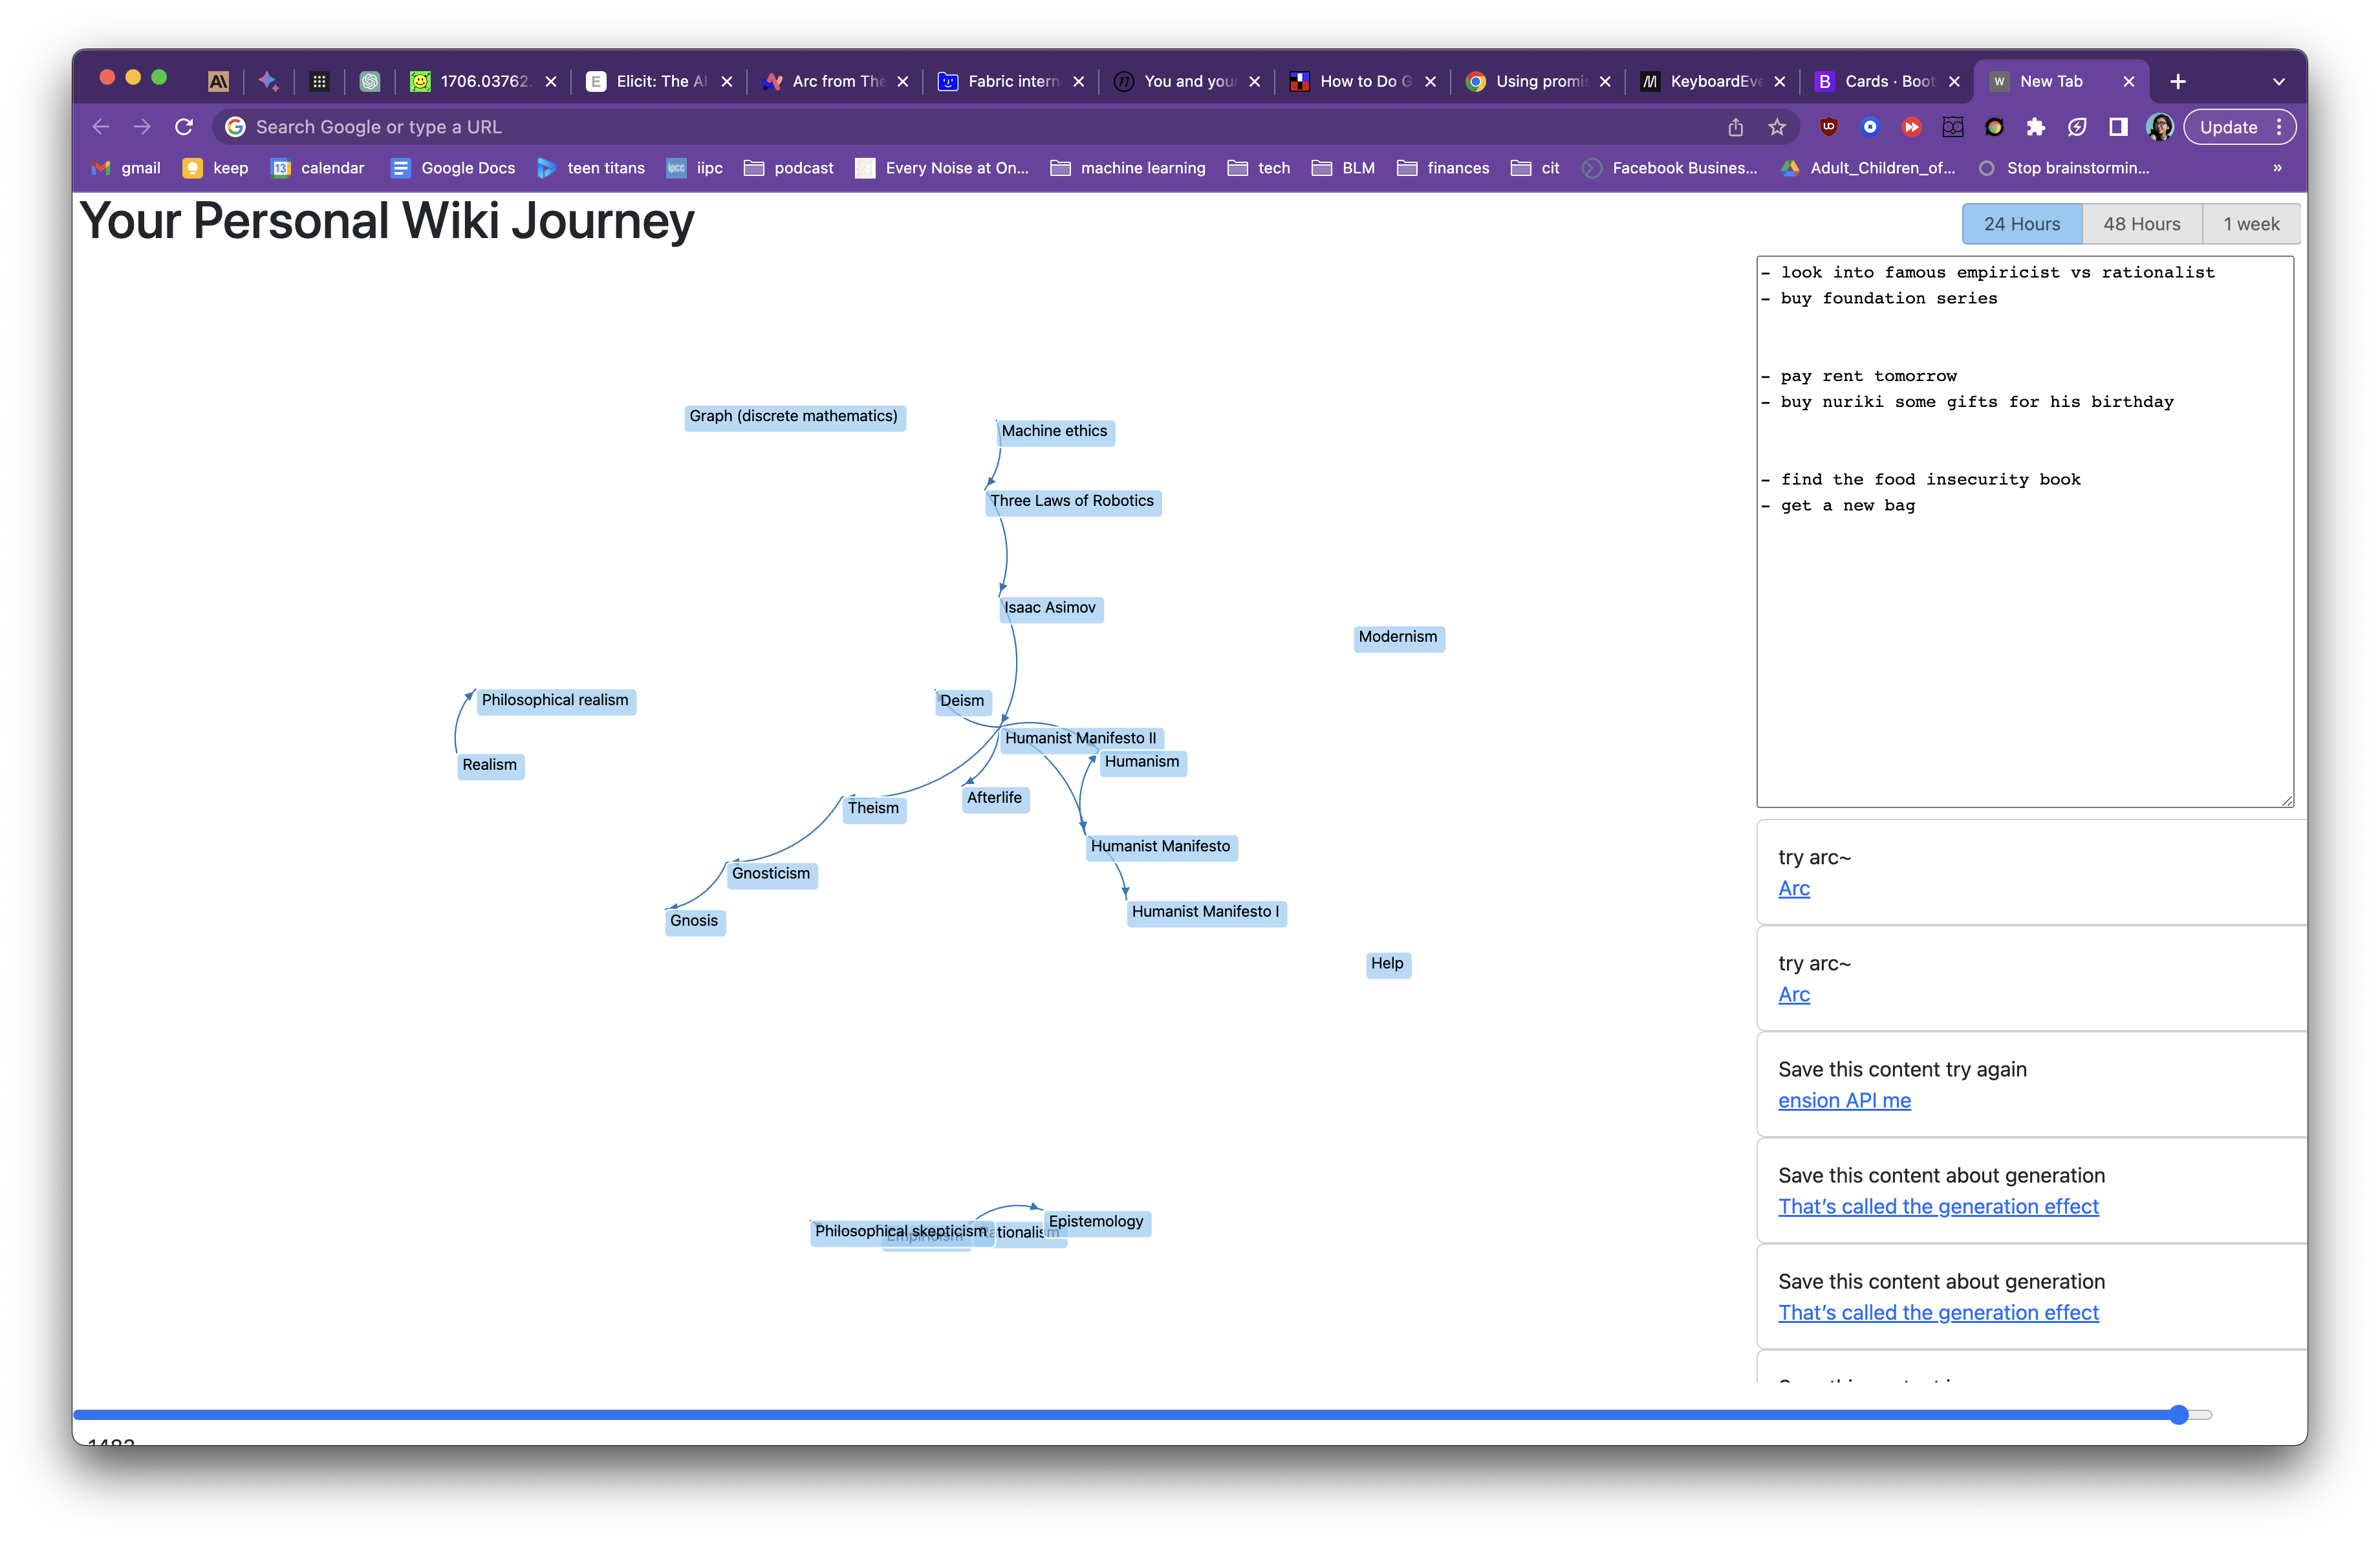
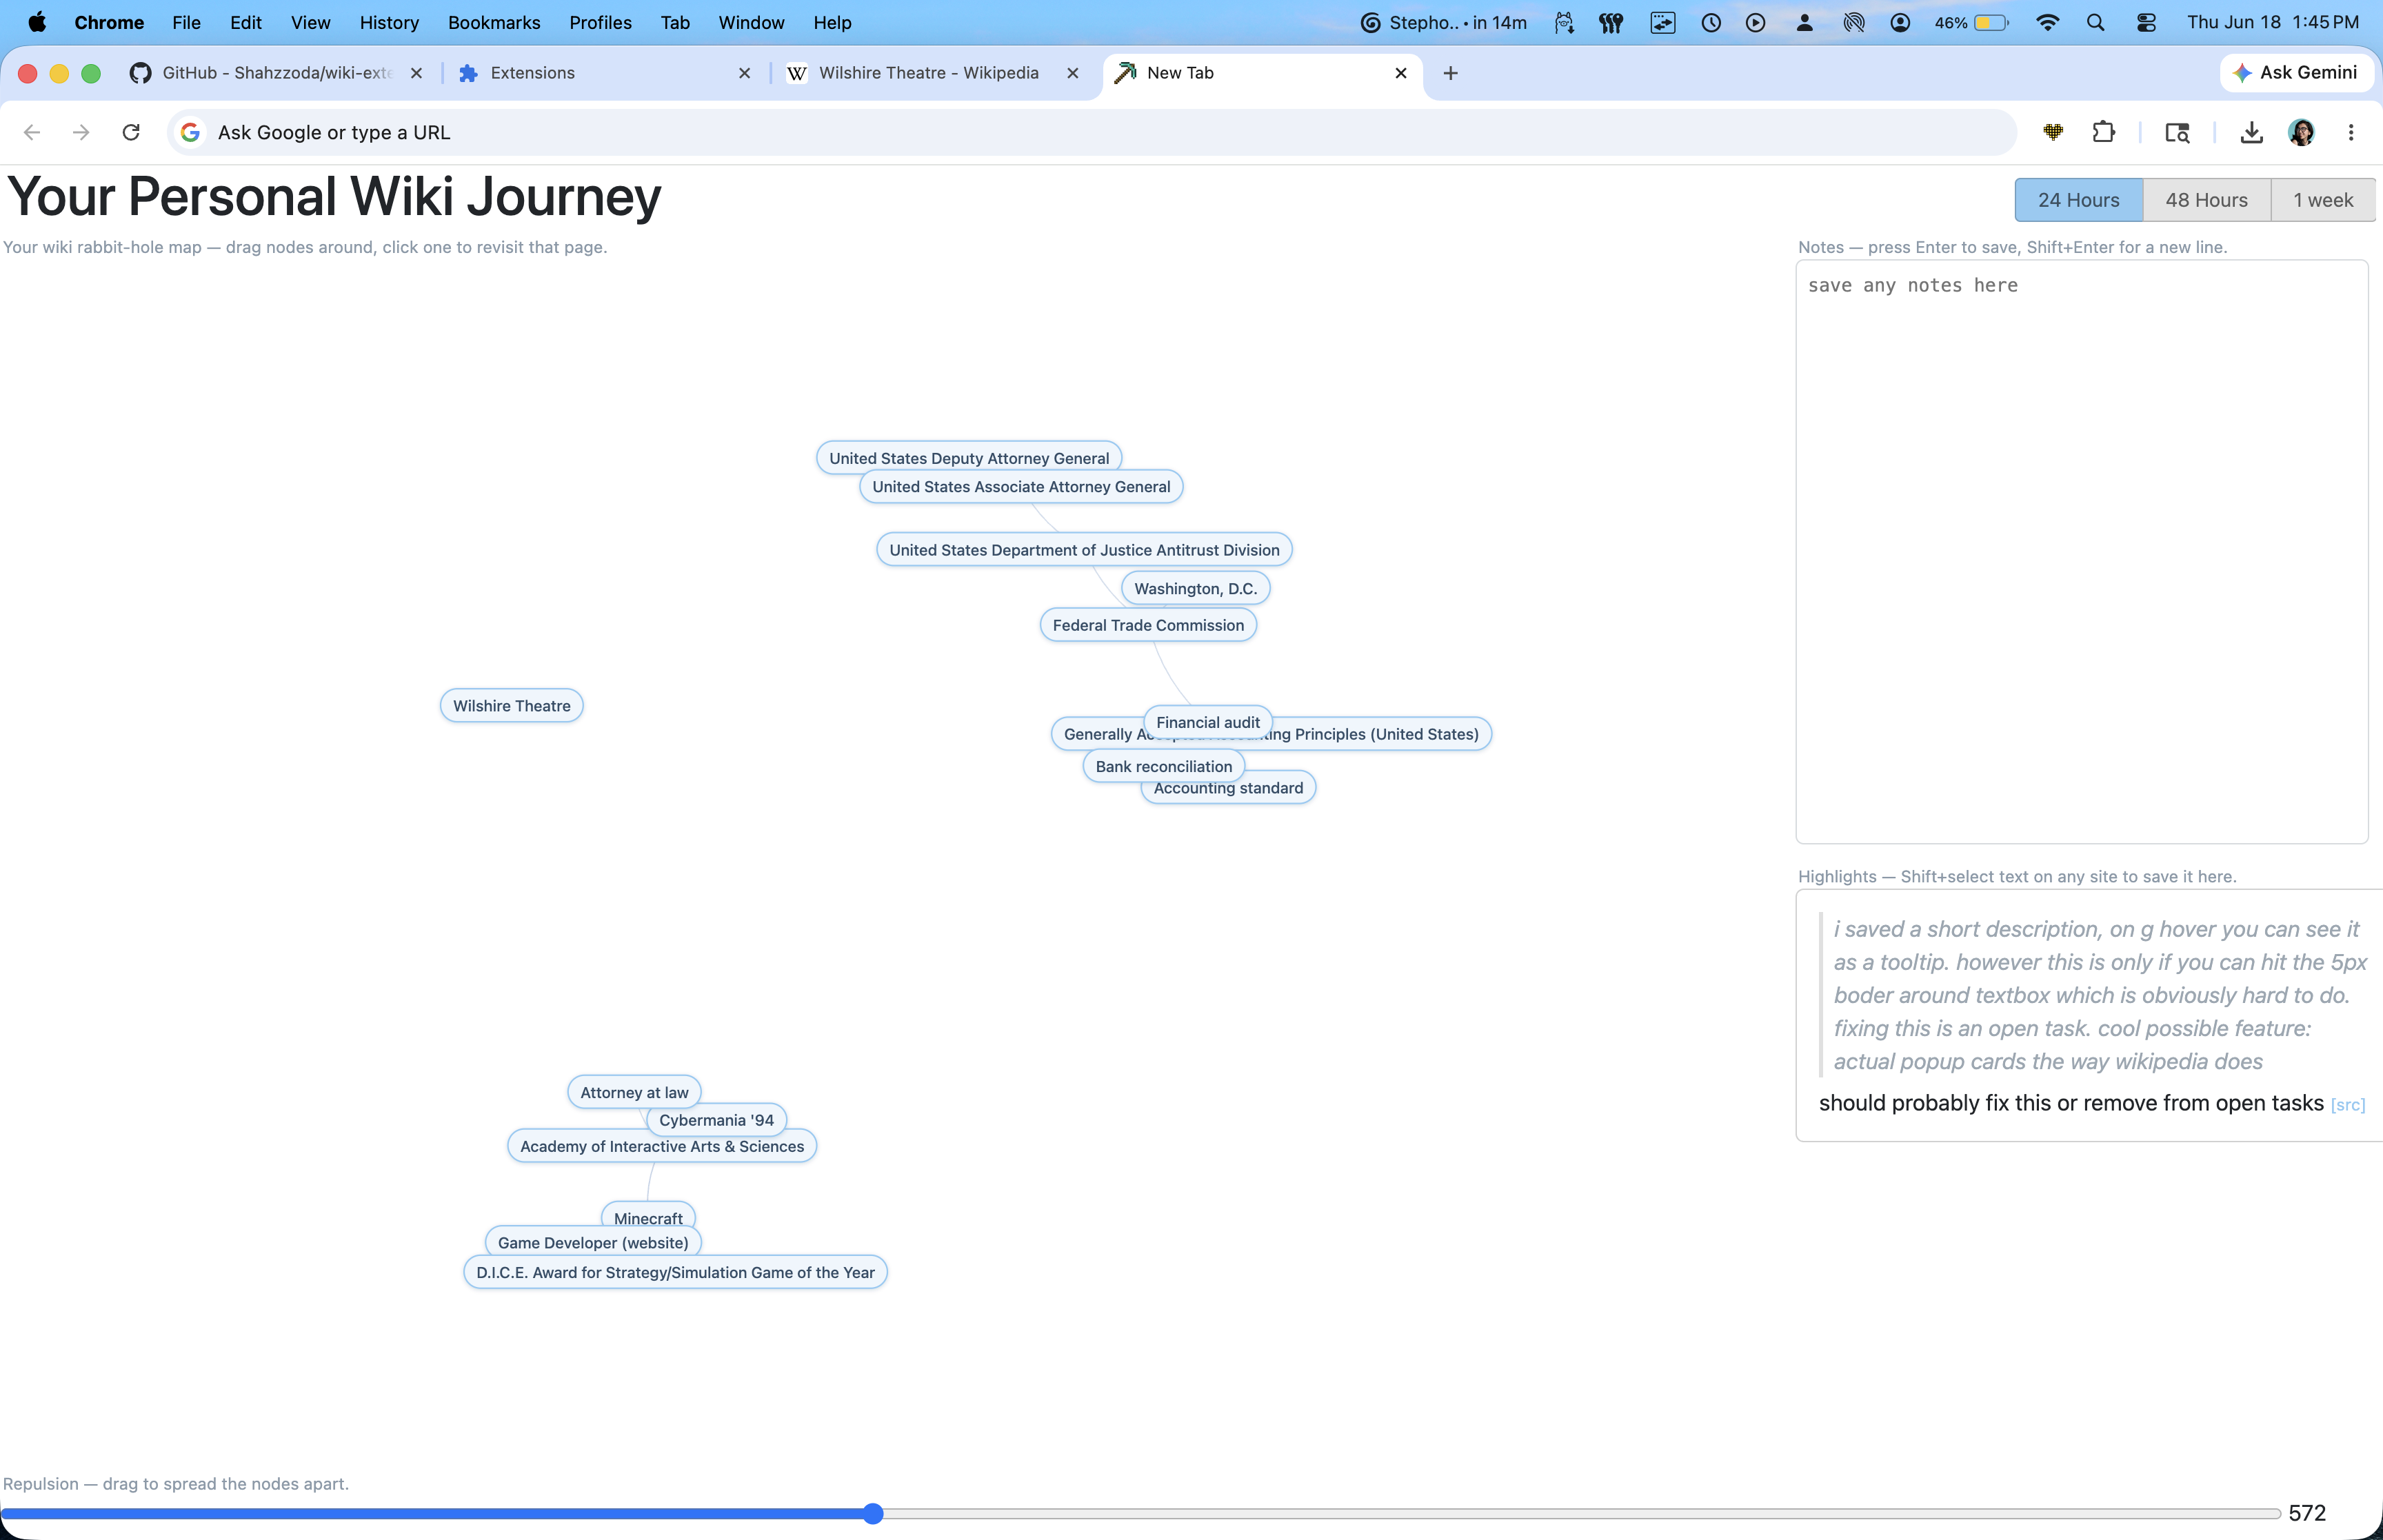
new readme

diff --git a/scripts/highlight.js b/scripts/highlight.js
@@ -25,6 +25,12 @@ class HighlightManager {
 
     saveContent(url, highlight, note) {
         const ms = Date.now();
+        // if the extension was reloaded, this injected script is orphaned and
+        // chrome.storage is gone — bail quietly instead of throwing.
+        if (!chrome?.storage?.local) {
+            this.removeTooltip();
+            return;
+        }
         chrome.storage.local.get({ highlightdata: {} }, (result) => {
             const storage = result.highlightdata;
 

diff --git a/README.md b/README.md
@@ -11,7 +11,7 @@ Looks like this:
 # features
 - time control so you can revisit and recollect the sites you explored last x days (1, 2, and 7 days -- if you know a bit of coding, its extremely easy to customize this)
 - slider to control repulsion of wiki nodes
-- the nodes are all links so you can click and revist thenm
+- the nodes are all links so you can click and revisit them
 - also draggable + fun ! :D
 - all the settings (time controls and repulsion force) will be saved between session 
 - note taking system to have your own notes and to save any highlights you have from any webpage
@@ -26,8 +26,6 @@ Should look like this
 <img width="1840" alt="extension page for devs" src="https://github.com/Shahzzoda/wiki-extension/blob/main/img/developer_ext.png">
 
 # open tasks 
-- if you open in a new tab and dont visit the site, node is null and therefore you wont see the graph. in chrome's developer console you can see which node is null and visit it to get around/unblock yourself locally
-- i saved a short description, on `g` hover you can see it as a tooltip. however this is only if you can hit the 5px boder around textbox which is obviously hard to do. fixing this is an open task. cool possible feature: actual popup cards the way wikipedia does
-- centering the arrows (`paths`) is nontrivial and perhaps worth the effort for a visually more appealing product.
+- dont love the spacing around the map yet, will work on the ui of that
 
-tech: d3, js, svg, and some chrom api knowledge will help :)
+tech: d3, js, svg, and some chrome api knowledge will help :)